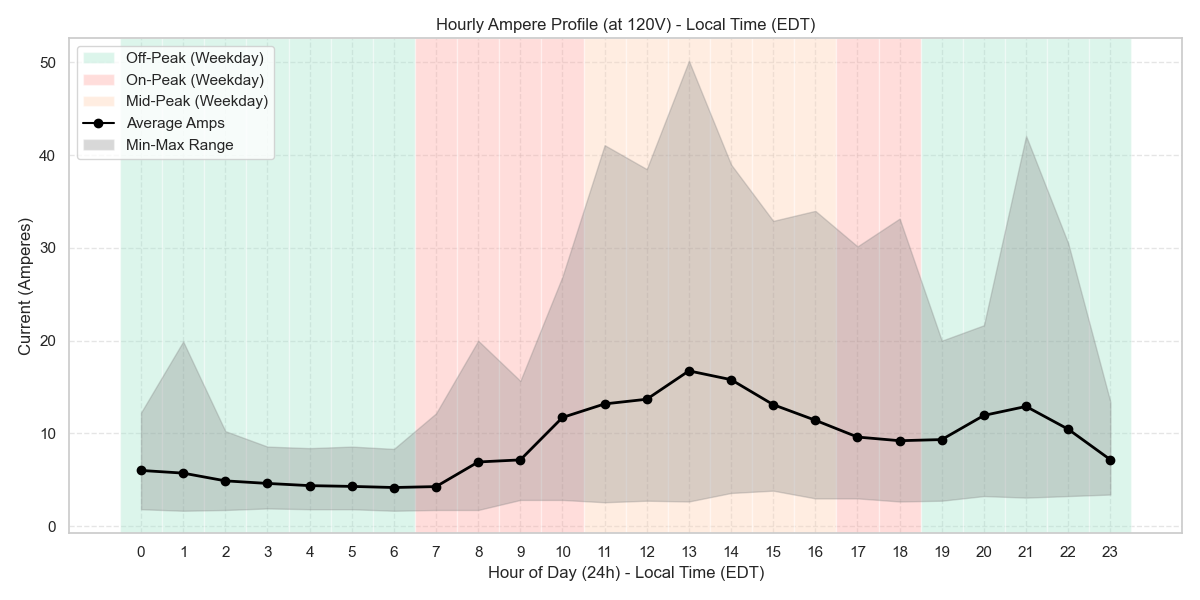
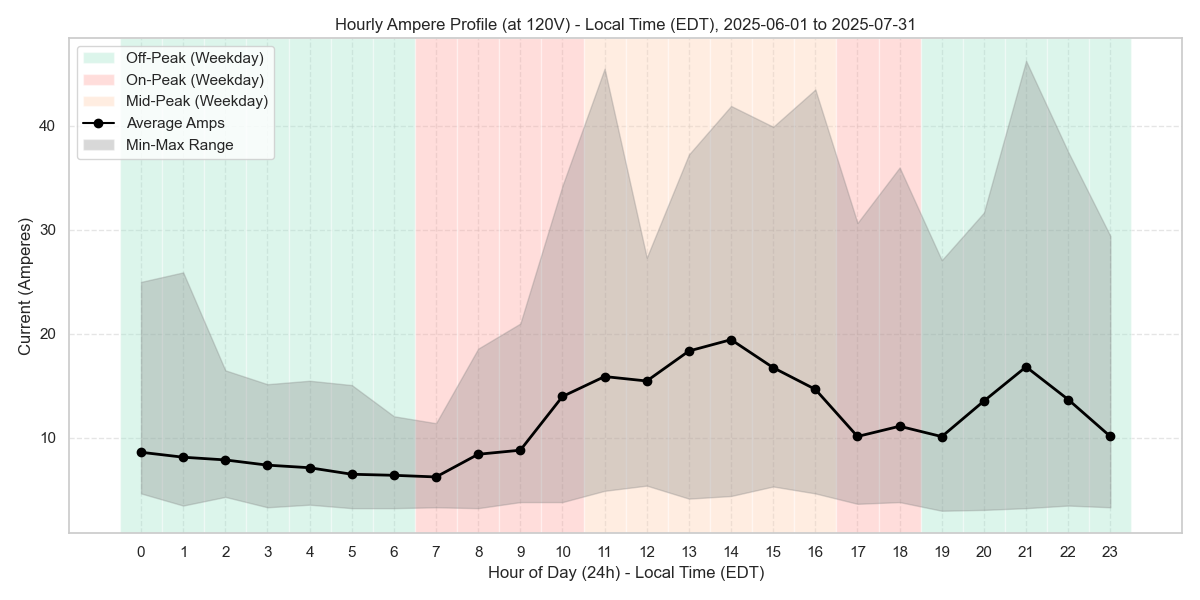
Updated logic

diff --git a/analyze_energy.py b/analyze_energy.py
@@ -1,12 +1,11 @@
-import xml.etree.ElementTree as ET
-import pandas as pd
-import matplotlib.pyplot as plt
-import seaborn as sns
-import os
 import glob
-import time
-import sys
+import os
+import xml.etree.ElementTree as ET
 from datetime import datetime, timedelta
+
+import matplotlib.pyplot as plt
+import pandas as pd
+import seaborn as sns
 
 # ANSI Colors
 C_RESET = "\033[0m"
@@ -17,23 +16,30 @@ C_YELLOW = "\033[33m"
 C_RED = "\033[31m"
 C_MAGENTA = "\033[35m"
 
+
 def clear_console():
     os.system('cls' if os.name == 'nt' else 'clear')
 
+
 def print_header(text):
-    print(f"\n{C_BOLD}{C_CYAN}{'='*10} {text} {'='*10}{C_RESET}")
+    print(f"\n{C_BOLD}{C_CYAN}{'=' * 10} {text} {'=' * 10}{C_RESET}")
+
 
 def print_success(text):
     print(f"{C_GREEN}✓ {text}{C_RESET}")
 
+
 def print_warning(text):
     print(f"{C_YELLOW}! {text}{C_RESET}")
+
 
 def print_error(text):
     print(f"{C_RED}✗ {text}{C_RESET}")
 
+
 def print_info(text):
     print(f"{C_MAGENTA}ℹ {text}{C_RESET}")
+
 
 # Clear console at start
 clear_console()
@@ -55,7 +61,7 @@ else:
     print(f"{C_BOLD}Multiple XML files found:{C_RESET}")
     for i, f in enumerate(xml_files):
         print(f"  {C_YELLOW}{chr(ord('a') + i)}){C_RESET} {f}")
-    
+
     while True:
         choice = input(f"\nSelect a file ({C_YELLOW}a, b, c, ...{C_RESET}): ").strip().lower()
         if not choice:
@@ -90,10 +96,10 @@ df = pd.DataFrame(data)
 
 # 2.5 Load Tiered Rates
 rates_file = 'TieredRates.txt'
-weekday_rates = {} # hour -> charge
-weekend_rates = {} # hour -> charge
-weekday_tier_names = {} # hour -> tier_name
-weekend_tier_names = {} # hour -> tier_name
+weekday_rates = {}  # hour -> charge
+weekend_rates = {}  # hour -> charge
+weekday_tier_names = {}  # hour -> tier_name
+weekend_tier_names = {}  # hour -> tier_name
 
 # Default colors (eye-soothing palette)
 DEFAULT_COLORS = {
@@ -103,7 +109,8 @@ DEFAULT_COLORS = {
     'Other': '#ff4d4d'
 }
 tier_colors = DEFAULT_COLORS.copy()
-tier_names_list = [] # ordered list of tier names for color mapping
+tier_names_list = []  # ordered list of tier names for color mapping
+
 
 # Default Tier Logic (used when TieredRates.txt is missing)
 def get_default_tier(hour):
@@ -112,6 +119,7 @@ def get_default_tier(hour):
         return 'Off-Peak'
     return 'Other'
 
+
 if os.path.exists(rates_file):
     print_info(f"Loading rates from {C_BOLD}{rates_file}{C_RESET}...")
     try:
@@ -119,28 +127,28 @@ if os.path.exists(rates_file):
         rates_df = pd.read_csv(rates_file, sep=':')
         # Clean up column names in case they have leading/trailing spaces
         rates_df.columns = rates_df.columns.str.strip()
-        
+
         # Collect unique tier names in order of appearance
         if 'tier_name' in rates_df.columns:
             for t in rates_df['tier_name'].str.strip():
                 if t not in tier_names_list:
                     tier_names_list.append(t)
-        
+
         for _, row in rates_df.iterrows():
             time_range = str(row['time_range']).strip()
             charge = float(row['charge_per_kwh'])
             day_type = str(row['day_type']).strip()
             tier_name = str(row['tier_name']).strip() if 'tier_name' in row else "Other"
             color_code = str(row['color_code']).strip() if 'color_code' in row else "#f0f0f0"
-            
+
             if tier_name not in tier_names_list:
                 tier_names_list.append(tier_name)
             tier_colors[tier_name] = color_code
-            
+
             start_hour = int(time_range.split('_')[0][:2])
             end_hour = int(time_range.split('_')[2][:2])
-            if end_hour == 0: end_hour = 24 # 2400 case
-            
+            if end_hour == 0: end_hour = 24  # 2400 case
+
             rate_dict = weekday_rates if day_type == 'Weekday' else weekend_rates
             name_dict = weekday_tier_names if day_type == 'Weekday' else weekend_tier_names
             for h in range(start_hour, end_hour):
@@ -151,13 +159,15 @@ if os.path.exists(rates_file):
 else:
     print_warning(f"{rates_file} not found. Cost analysis will be skipped.")
 
+
 def get_rate_info(row):
     dt = row['dt_local']
     hour = dt.hour
-    if dt.weekday() < 5: # Monday-Friday
+    if dt.weekday() < 5:  # Monday-Friday
         return weekday_rates.get(hour, 0.0), weekday_tier_names.get(hour, "Other")
-    else: # Saturday-Sunday
+    else:  # Saturday-Sunday
         return weekend_rates.get(hour, 0.0), weekend_tier_names.get(hour, "Other")
+
 
 # 3. Data Transformation
 # Get multiplier from ReadingType (e.g., -3 for Wh)
@@ -170,7 +180,7 @@ local_now = datetime.now().astimezone()
 tz_name = local_now.tzname()
 tz_offset_seconds = local_now.utcoffset().total_seconds()
 
-print_info(f"Detected System Timezone: {C_BOLD}{tz_name}{C_RESET} (Offset: {tz_offset_seconds/3600:g}h)")
+print_info(f"Detected System Timezone: {C_BOLD}{tz_name}{C_RESET} (Offset: {tz_offset_seconds / 3600:g}h)")
 
 # Convert to kWh
 df['usage_kwh'] = (df['value'] * (10 ** multiplier)) / 1000.0
@@ -189,7 +199,8 @@ last_start_str = ""
 last_end_str = ""
 output_base = "output"
 if os.path.exists(output_base):
-    subfolders = sorted([f for f in os.listdir(output_base) if os.path.isdir(os.path.join(output_base, f))], reverse=True)
+    subfolders = sorted([f for f in os.listdir(output_base) if os.path.isdir(os.path.join(output_base, f))],
+                        reverse=True)
     for folder in subfolders:
         # Pattern: yyyyMMdd_HHmmss_YYYY-MM-DD_to_YYYY-MM-DD
         parts = folder.split('_')
@@ -200,7 +211,8 @@ if os.path.exists(output_base):
 
 print(f"Available range: {C_YELLOW}{available_start}{C_RESET} to {C_YELLOW}{available_end}{C_RESET}")
 if last_start_str and last_end_str:
-    print(f"Last used range: {C_BOLD}{C_GREEN}{last_start_str}{C_RESET} to {C_BOLD}{C_GREEN}{last_end_str}{C_RESET} (Press {C_BOLD}'L'{C_RESET} to reuse)")
+    print(
+        f"Last used range: {C_BOLD}{C_GREEN}{last_start_str}{C_RESET} to {C_BOLD}{C_GREEN}{last_end_str}{C_RESET} (Press {C_BOLD}'L'{C_RESET} to reuse)")
 
 print(f"Press {C_BOLD}Enter{C_RESET} to keep default or provide new range below.")
 
@@ -223,7 +235,8 @@ if user_start:
 if user_end:
     try:
         # Use .replace(hour=23, minute=59, second=59) for end date
-        available_end = pd.to_datetime(user_end).replace(hour=23, minute=59, second=59).tz_localize(df['dt_local'].dt.tz)
+        available_end = pd.to_datetime(user_end).replace(hour=23, minute=59, second=59).tz_localize(
+            df['dt_local'].dt.tz)
     except Exception as e:
         print_error(f"Invalid end date format: {e}. Using default.")
 
@@ -290,7 +303,7 @@ for h in range(24):
 if has_rates:
     avg_cost_profile = hourly_df.groupby('hour')['cost_cents'].mean()
     daily_cost_cents = hourly_df.set_index('dt_local').resample('D')['cost_cents'].sum()
-    
+
     # Ensure 'Other' has a default color if not in file
     if 'Other' not in tier_colors:
         tier_colors['Other'] = '#f0f0f0'
@@ -318,8 +331,9 @@ plt.figure(figsize=(15, 6))
 plt.plot(hourly_df['dt_local'], hourly_df['usage_kwh'], color='black', linewidth=1, zorder=3)
 
 # Add background colors for tiers if available
-if True: # Always add background, will use 'Other' if has_rates is False
+if True:  # Always add background, will use 'Other' if has_rates is False
     from matplotlib.patches import Patch
+
     # Plot background for each data point
     # To avoid many rectangles, we can find contiguous blocks of the same tier
     # or just iterate and fill per hour (more straightforward)
@@ -359,13 +373,14 @@ plt.figure(figsize=(10, 5))
 plt.plot(avg_kwh_profile.index, avg_kwh_profile.values, marker='o', color='black', zorder=3)
 
 # Add background colors for tiers if available
-if True: # Always add background, will use 'Other' if has_rates is False
+if True:  # Always add background, will use 'Other' if has_rates is False
     from matplotlib.patches import Patch
+
     for h in range(24):
         tier = tier_schedule[h]
         color = tier_colors.get(tier, DEFAULT_COLORS['Other'])
         plt.axvspan(h - 0.5, h + 0.5, facecolor=color, alpha=0.3, zorder=1)
-    
+
     if has_rates:
         legend_elements = [
             Patch(facecolor=tier_colors.get(name), alpha=0.3, label=f'{name} (Weekday)')
@@ -379,7 +394,7 @@ if True: # Always add background, will use 'Other' if has_rates is False
         ]
         plt.legend(handles=legend_elements, loc='upper left')
 
-plt.title(f'Average Electricity Usage by Hour of Day ({tz_name})')
+plt.title(f'Average Electricity Usage by Hour of Day ({tz_name}), {start_str} to {end_str}')
 plt.xlabel(f'Hour of Day (24h) - {tz_name}')
 plt.ylabel('Average Usage (kWh)')
 plt.xticks(range(0, 24))
@@ -393,18 +408,20 @@ plt.figure(figsize=(12, 6))
 
 # Plot the stats
 plt.plot(amp_stats.index, amp_stats['mean'], label='Average Amps', color='black', marker='o', linewidth=2, zorder=3)
-plt.fill_between(amp_stats.index, amp_stats['min'], amp_stats['max'], color='gray', alpha=0.3, label='Min-Max Range', zorder=2)
+plt.fill_between(amp_stats.index, amp_stats['min'], amp_stats['max'], color='gray', alpha=0.3, label='Min-Max Range',
+                 zorder=2)
 
 # Add background colors for tiers if available
-if True: # Always add background, will use 'Other' if has_rates is False
+if True:  # Always add background, will use 'Other' if has_rates is False
     from matplotlib.patches import Patch
     from matplotlib.lines import Line2D
+
     # We want to draw vertical spans for each hour's tier
     for h in range(24):
         tier = tier_schedule[h]
         color = tier_colors.get(tier, DEFAULT_COLORS['Other'])
         plt.axvspan(h - 0.5, h + 0.5, facecolor=color, alpha=0.4, zorder=1)
-        
+
     # Create custom legend for tiers
     legend_elements = []
     if has_rates:
@@ -425,7 +442,7 @@ if True: # Always add background, will use 'Other' if has_rates is False
     ])
     plt.legend(handles=legend_elements, loc='upper left')
 
-plt.title(f'Hourly Ampere Profile (at 120V) - Local Time ({tz_name})')
+plt.title(f'Hourly Ampere Profile (at 120V) - Local Time ({tz_name}), {start_str} to {end_str}')
 plt.xlabel(f'Hour of Day (24h) - Local Time ({tz_name})')
 plt.ylabel('Current (Amperes)')
 plt.xticks(range(0, 24))
@@ -438,20 +455,20 @@ if has_rates:
     # Graph 4: Hourly Average Cost Profile
     plt.figure(figsize=(10, 5))
     plt.plot(avg_cost_profile.index, avg_cost_profile.values, marker='s', color='black', zorder=3)
-    
+
     # Add background colors for tiers
     for h in range(24):
         tier = tier_schedule[h]
         color = tier_colors.get(tier, '#f0f0f0')
         plt.axvspan(h - 0.5, h + 0.5, facecolor=color, alpha=0.3, zorder=1)
-    
+
     legend_elements = [
         Patch(facecolor=tier_colors.get(name), alpha=0.3, label=f'{name} (Weekday)')
         for name in tier_names_list
     ]
     plt.legend(handles=legend_elements, loc='upper left')
 
-    plt.title(f'Average Electricity Cost by Hour of Day ({tz_name})')
+    plt.title(f'Average Electricity Cost by Hour of Day ({tz_name}), {start_str} to {end_str}')
     plt.xlabel(f'Hour of Day (24h) - {tz_name}')
     plt.ylabel('Average Cost (¢)')
     plt.xticks(range(0, 24))
@@ -478,13 +495,13 @@ if has_rates:
     # Prepare data: sum usage per day and tier
     # We use dt_local.dt.date for grouping by day
     daily_tier_usage = hourly_df.groupby([hourly_df['dt_local'].dt.date, 'tier'])['usage_kwh'].sum().unstack().fillna(0)
-    
+
     # Use the same tier_colors
     current_tier_colors = [tier_colors.get(tier, DEFAULT_COLORS['Other']) for tier in daily_tier_usage.columns]
-    
+
     ax = daily_tier_usage.plot(kind='bar', stacked=True, color=current_tier_colors, ax=plt.gca())
     plt.legend(title="Rate Tier")
-    
+
     # Calculate totals for labels
     totals = daily_tier_usage.sum(axis=1)
 else:
@@ -495,7 +512,7 @@ else:
         if t not in daily_tier_usage.columns:
             daily_tier_usage[t] = 0.0
     daily_tier_usage = daily_tier_usage[['Off-Peak', 'Other']]
-    
+
     current_tier_colors = [DEFAULT_COLORS['Off-Peak'], DEFAULT_COLORS['Other']]
     ax = daily_tier_usage.plot(kind='bar', stacked=True, color=current_tier_colors, ax=plt.gca())
     plt.legend(title="Default Tier (Night: 10PM-7AM)")
@@ -504,7 +521,7 @@ else:
 # Add total values on top of bars
 for i, total in enumerate(totals):
     if total > 0:
-        plt.text(i, total + (totals.max() * 0.01), f'{total:.1f}', 
+        plt.text(i, total + (totals.max() * 0.01), f'{total:.1f}',
                  ha='center', va='bottom', rotation=90, fontsize=9)
 
 plt.title(f'Daily Electricity Usage Total ({tz_name})')
@@ -522,15 +539,15 @@ if has_rates:
     # Stacked bar by tier for cost
     daily_tier_cost = hourly_df.groupby([hourly_df['dt_local'].dt.date, 'tier'])['cost_cents'].sum().unstack().fillna(0)
     current_tier_colors = [tier_colors.get(tier, DEFAULT_COLORS['Other']) for tier in daily_tier_cost.columns]
-    
+
     ax = daily_tier_cost.plot(kind='bar', stacked=True, color=current_tier_colors, ax=plt.gca())
     plt.legend(title="Rate Tier")
-    
+
     # Calculate totals for labels
     cost_totals = daily_tier_cost.sum(axis=1)
     for i, total in enumerate(cost_totals):
         if total > 0:
-            plt.text(i, total + (cost_totals.max() * 0.01), f'{total:.1f}', 
+            plt.text(i, total + (cost_totals.max() * 0.01), f'{total:.1f}',
                      ha='center', va='bottom', rotation=90, fontsize=9)
 
     plt.title(f'Daily Electricity Cost Total ({tz_name})')
@@ -548,12 +565,12 @@ if has_rates:
     # Get colors for existing tiers in this dataset
     pie_colors1 = [tier_colors.get(t, '#f0f0f0') for t in tier_usage.index]
     tier_usage.plot(kind='pie', autopct='%1.1f%%', ax=ax1, colors=pie_colors1)
-    ax1.set_title('Usage (kWh) by Rate Tier')
+    ax1.set_title(f'Usage (kWh) by Rate Tier, {start_str} to {end_str}')
     ax1.set_ylabel('')
 
     pie_colors2 = [tier_colors.get(t, '#f0f0f0') for t in tier_cost_cents.index]
     tier_cost_cents.plot(kind='pie', autopct='%1.1f%%', ax=ax2, colors=pie_colors2)
-    ax2.set_title('Cost (¢) by Rate Tier')
+    ax2.set_title(f'Cost (¢) by Rate Tier, {start_str} to {end_str}')
     ax2.set_ylabel('')
 
     plt.tight_layout()
